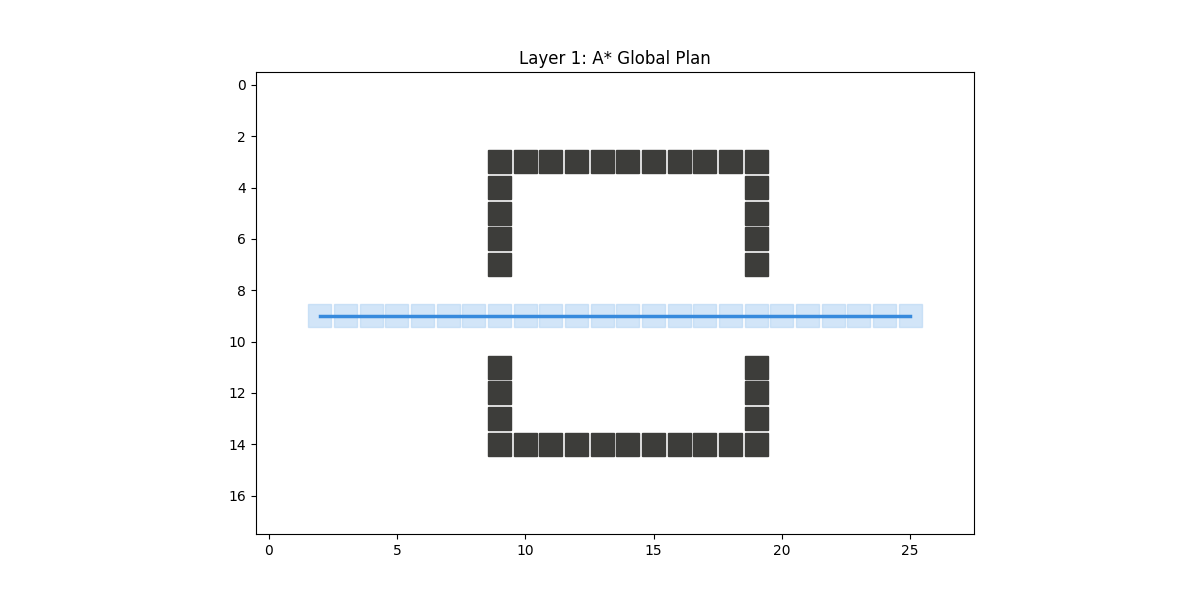
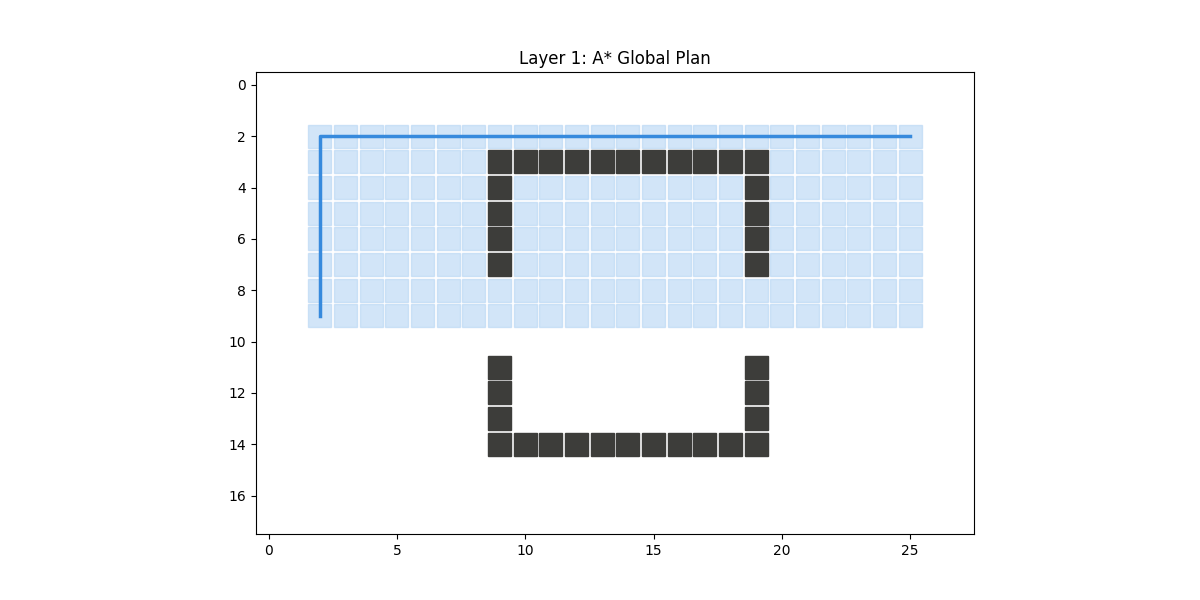
modify the target to different height as the start

Changed region(s): [[0.2467, 0.21, 0.7708, 0.54]]

diff --git a/main.py b/main.py
@@ -6,14 +6,14 @@ import numpy as np
 def main():
     # 1. Setup
     gmap = GridMap.default_setup()
-    start, goal = (9, 2), (9, 25)
+    start, goal = (9, 2), (2, 25)
 
     # 2. Global Plan (Discrete)
     astar_path, explored = run_astar(gmap, start, goal)
 
     # 3. Local Execution (Continuous)
     controller = MPCController()
-    obs = DynamicObstacle(r=9.0, c=14.0)
+    obs = DynamicObstacle(r=2.0, c=14.0)
     pos = np.array(start, dtype=float)
     trajectory = [pos.copy()]
 
